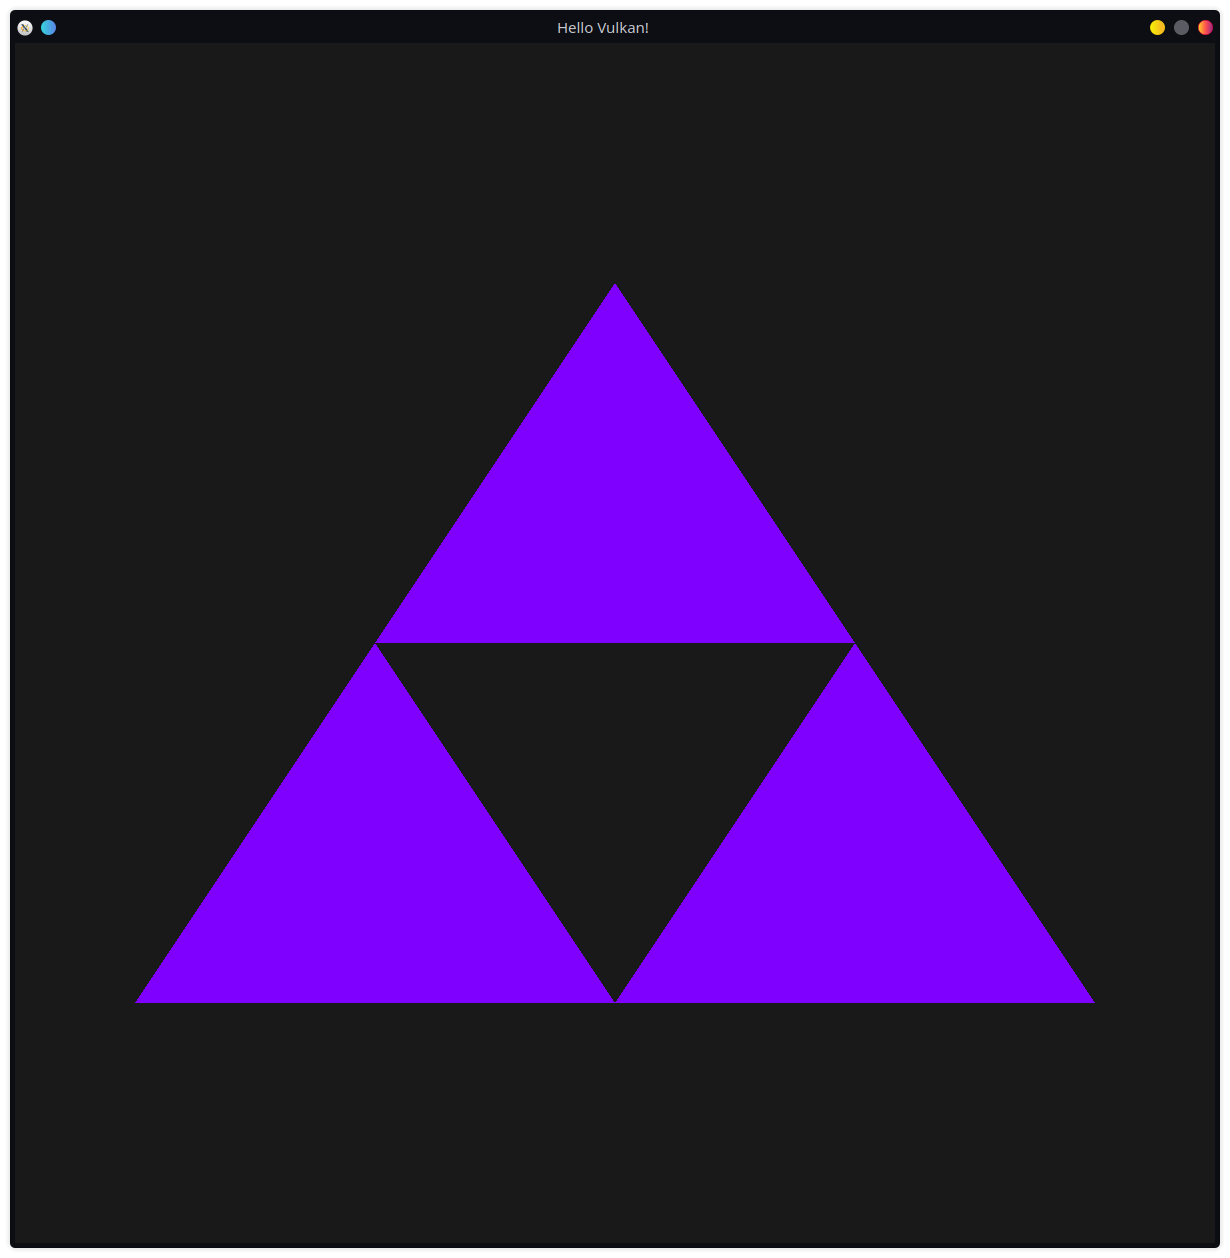
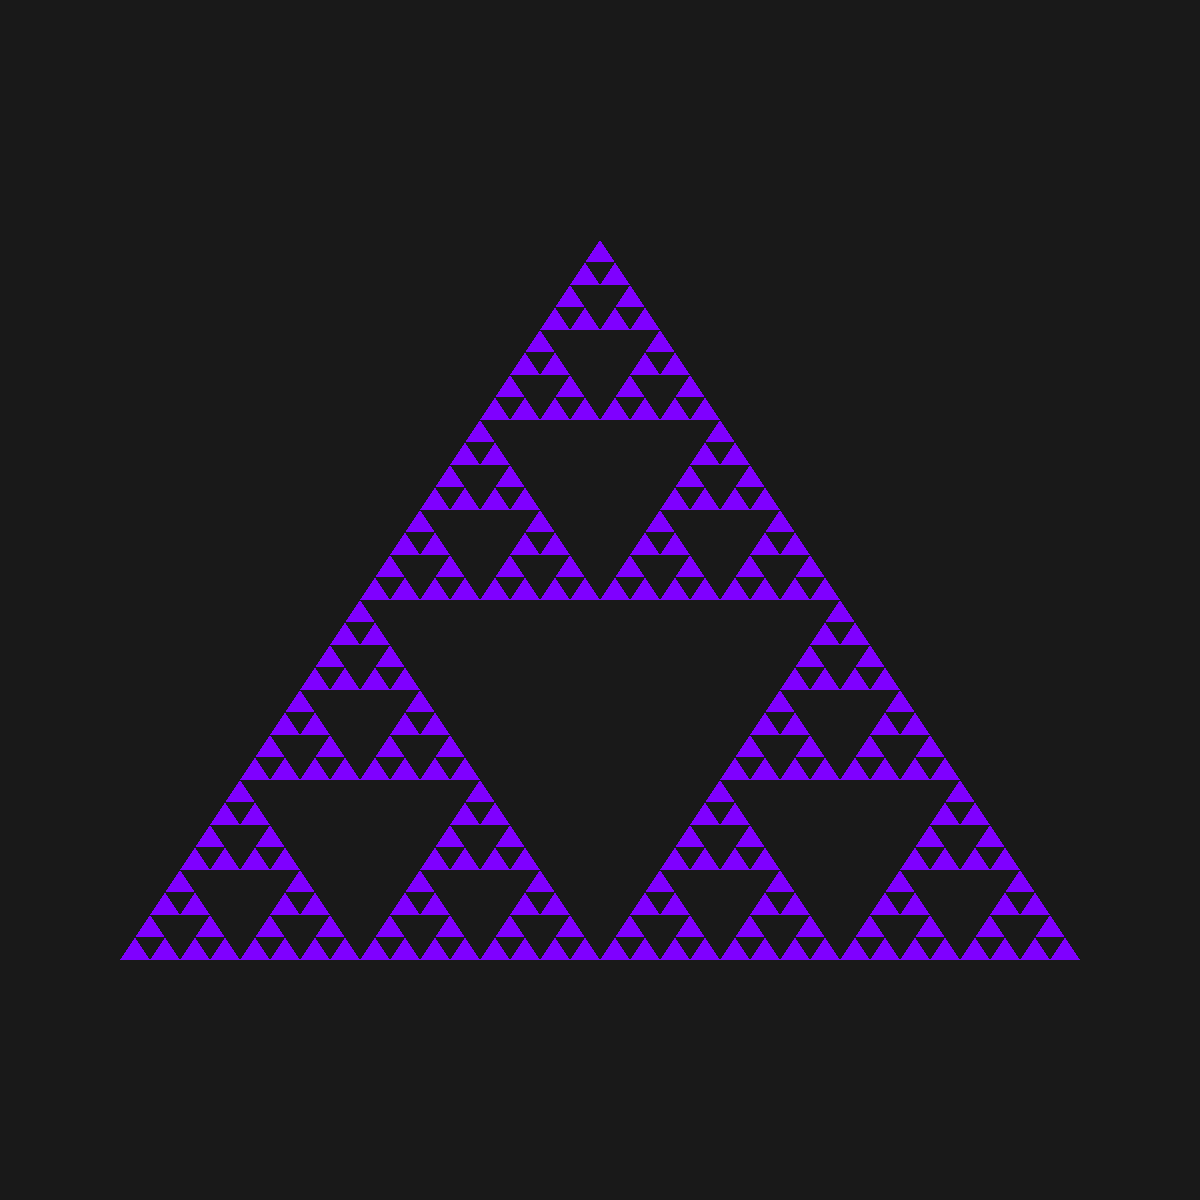
Showing triangle.

Changed region(s): [[0.0925, 0.185, 0.8942, 0.8017], [0.0, 0.0, 1.0, 1.0]]

diff --git a/first_app.cpp b/first_app.cpp
@@ -36,7 +36,7 @@ void FirstApp::Run()
 
 void FirstApp::LoadModels()
 {
-    auto vertices = SierpinskiTriangle(5);
+    auto vertices = SierpinskiTriangle(6);
 
     lveModel = std::make_unique<LveModel>(lveDevice, vertices);
 }
